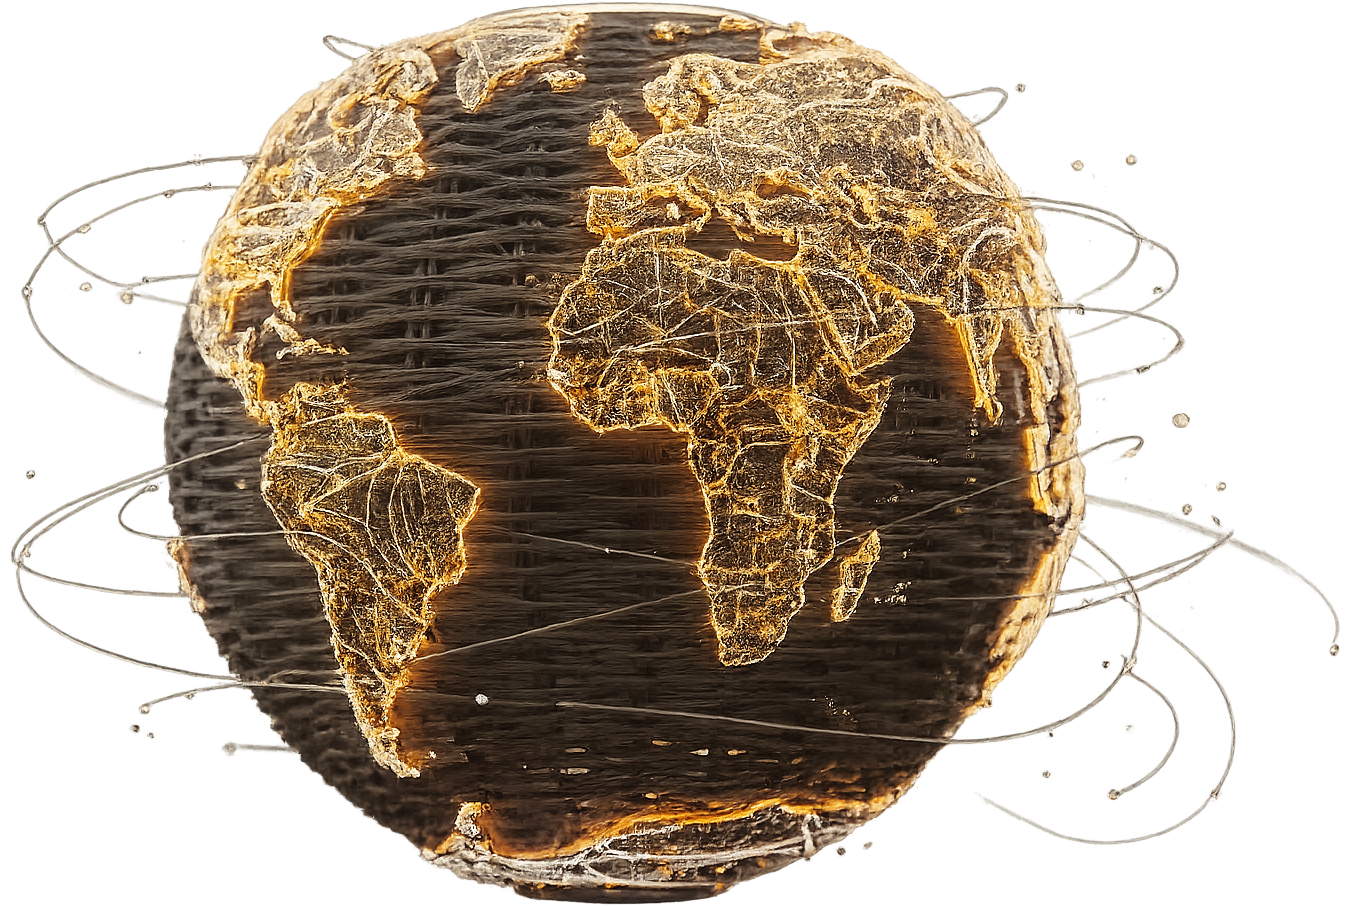
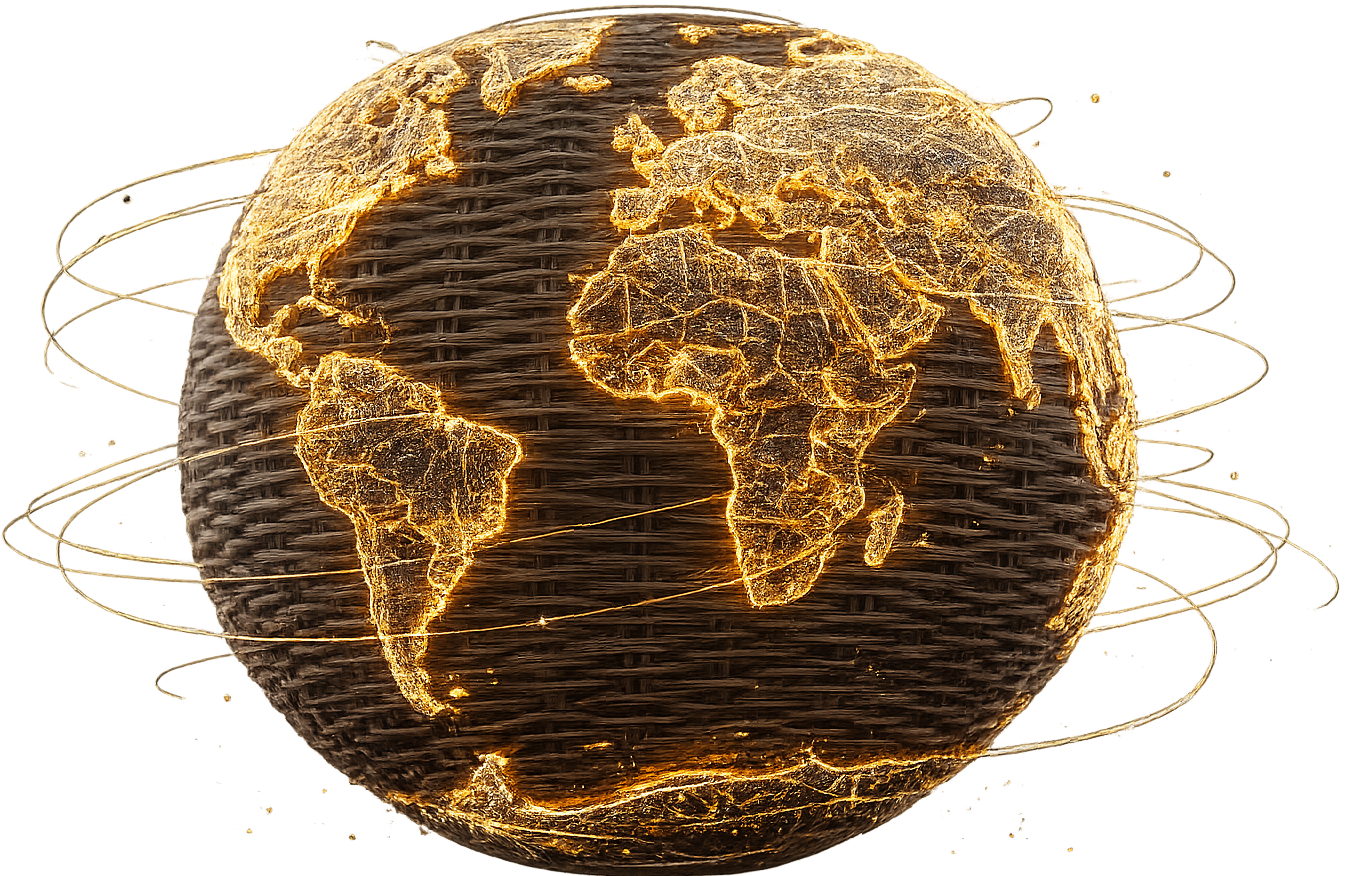
Update globe, arrows dark green, background back to white
- Replace globe with new goldglobe.png
- Add dark green tint to up/down arrows (#3D4127)
- Change background from light green back to white

diff --git a/src/components/home/OrbitingGlobe.tsx b/src/components/home/OrbitingGlobe.tsx
@@ -190,7 +190,7 @@ export function OrbitingGlobe() {
             <img
               src="/arrow-up.png"
               alt=""
-              className={`w-10 h-auto transition-opacity pointer-events-none ${isButtonPressed ? 'opacity-100' : 'opacity-60'}`}
+              className={`w-10 h-auto transition-opacity pointer-events-none dark-green-tint ${isButtonPressed ? 'opacity-100' : 'opacity-60'}`}
               draggable={false}
               style={{ WebkitTouchCallout: 'none', WebkitUserSelect: 'none' }}
             />
@@ -226,7 +226,7 @@ export function OrbitingGlobe() {
             <img
               src="/arrow-down.png"
               alt=""
-              className={`w-10 h-auto transition-opacity pointer-events-none ${isButtonPressed ? 'opacity-100' : 'opacity-60'}`}
+              className={`w-10 h-auto transition-opacity pointer-events-none dark-green-tint ${isButtonPressed ? 'opacity-100' : 'opacity-60'}`}
               draggable={false}
               style={{ WebkitTouchCallout: 'none', WebkitUserSelect: 'none' }}
             />

diff --git a/src/app/globals.css b/src/app/globals.css
@@ -14,7 +14,7 @@
   --color-forest: #636B2F;
   --color-forest-light: #BAC095;
   --color-forest-dark: #3D4127;
-  --color-cream: #E8E9C8;
+  --color-cream: #FFFFFF;
   --color-sand: #BAC095;
   --color-brown: #3D4127;
 }
@@ -33,7 +33,7 @@ body {
 }
 
 body {
-  background-color: #E8E9C8;
+  background-color: #FFFFFF;
   color: #1a1a1a;
 }
 
@@ -167,4 +167,9 @@ body {
 /* Olive tint filter for logo and globe images */
 .olive-tint {
   filter: sepia(100%) saturate(300%) brightness(70%) hue-rotate(30deg);
+}
+
+/* Dark green tint for arrows */
+.dark-green-tint {
+  filter: sepia(100%) saturate(500%) brightness(40%) hue-rotate(30deg);
 }

diff --git a/tailwind.config.ts b/tailwind.config.ts
@@ -26,7 +26,7 @@ const config: Config = {
           light: '#BAC095',
           dark: '#3D4127',
         },
-        cream: '#E8E9C8',
+        cream: '#FFFFFF',
         sand: '#BAC095',
         brown: '#3D4127',
       },
